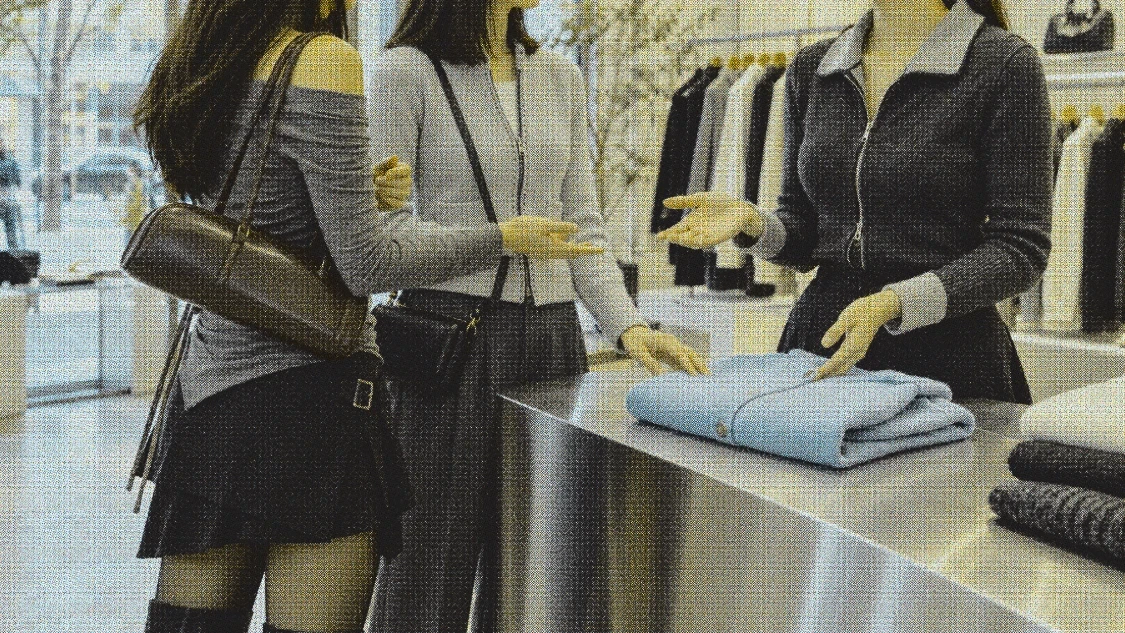
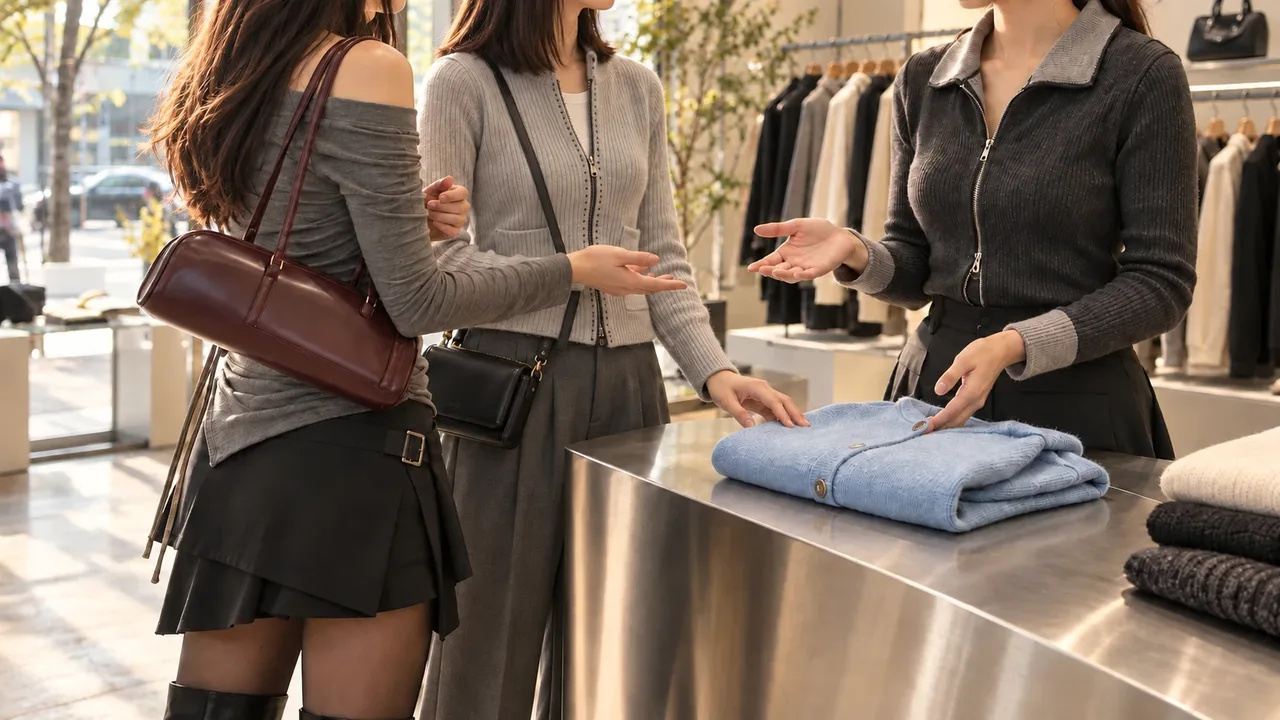
About 이미지 4장을 햇살 톤 버전으로 교체

diff --git a/index.html b/index.html
@@ -111,25 +111,25 @@
 
         <ul class="values reveal">
           <li class="value">
-            <img class="value__image" src="src/assets/about-editor-curation.webp?v=5" alt="매장 옷걸이에서 집업 니트를 골라 보는 모습" data-i18n-alt="about-value-1-alt" width="960" height="540" loading="lazy" decoding="async">
+            <img class="value__image" src="src/assets/about-editor-curation.webp?v=6" alt="매장 옷걸이에서 집업 니트를 골라 보는 모습" data-i18n-alt="about-value-1-alt" width="960" height="540" loading="lazy" decoding="async">
             <span class="value__index">01</span>
             <h3 class="value__title" data-i18n="about-value-1-title">에디터 큐레이션</h3>
             <p class="value__desc" data-i18n="about-value-1-desc">에디터가 직접 엄선한 매장 추천</p>
           </li>
           <li class="value">
-            <img class="value__image" src="src/assets/about-local-discovery.webp?v=5" alt="서울 골목의 패션 매장 앞을 함께 걷는 모습" data-i18n-alt="about-value-2-alt" width="960" height="540" loading="lazy" decoding="async">
+            <img class="value__image" src="src/assets/about-local-discovery.webp?v=6" alt="서울 골목의 패션 매장 앞을 함께 걷는 모습" data-i18n-alt="about-value-2-alt" width="960" height="540" loading="lazy" decoding="async">
             <span class="value__index">02</span>
             <h3 class="value__title" data-i18n="about-value-2-title">로컬 발견</h3>
             <p class="value__desc" data-i18n="about-value-2-desc">서울 패션 피플들이 방문하는 지역 위주</p>
           </li>
           <li class="value">
-            <img class="value__image" src="src/assets/about-multilingual-experience.webp?v=5" alt="에디터와 함께 매장 직원에게 니트를 안내받는 모습" data-i18n-alt="about-value-3-alt" width="960" height="540" loading="lazy" decoding="async">
+            <img class="value__image" src="src/assets/about-multilingual-experience.webp?v=6" alt="에디터와 함께 매장 직원에게 니트를 안내받는 모습" data-i18n-alt="about-value-3-alt" width="960" height="540" loading="lazy" decoding="async">
             <span class="value__index">03</span>
             <h3 class="value__title" data-i18n="about-value-3-title">다국어 경험</h3>
             <p class="value__desc" data-i18n="about-value-3-desc">관광객 언어로 소통</p>
           </li>
           <li class="value">
-            <img class="value__image" src="src/assets/about-brand-partnerships.webp?v=5" alt="브랜드 작업실 테이블에서 재킷과 원단, 룩북을 함께 살펴보는 모습" data-i18n-alt="about-value-4-alt" width="960" height="540" loading="lazy" decoding="async">
+            <img class="value__image" src="src/assets/about-brand-partnerships.webp?v=6" alt="브랜드 작업실 테이블에서 재킷과 원단, 룩북을 함께 살펴보는 모습" data-i18n-alt="about-value-4-alt" width="960" height="540" loading="lazy" decoding="async">
             <span class="value__index">04</span>
             <h3 class="value__title" data-i18n="about-value-4-title">브랜드 파트너십</h3>
             <p class="value__desc" data-i18n="about-value-4-desc">한국에만 있는 브랜드와의 협업</p>
